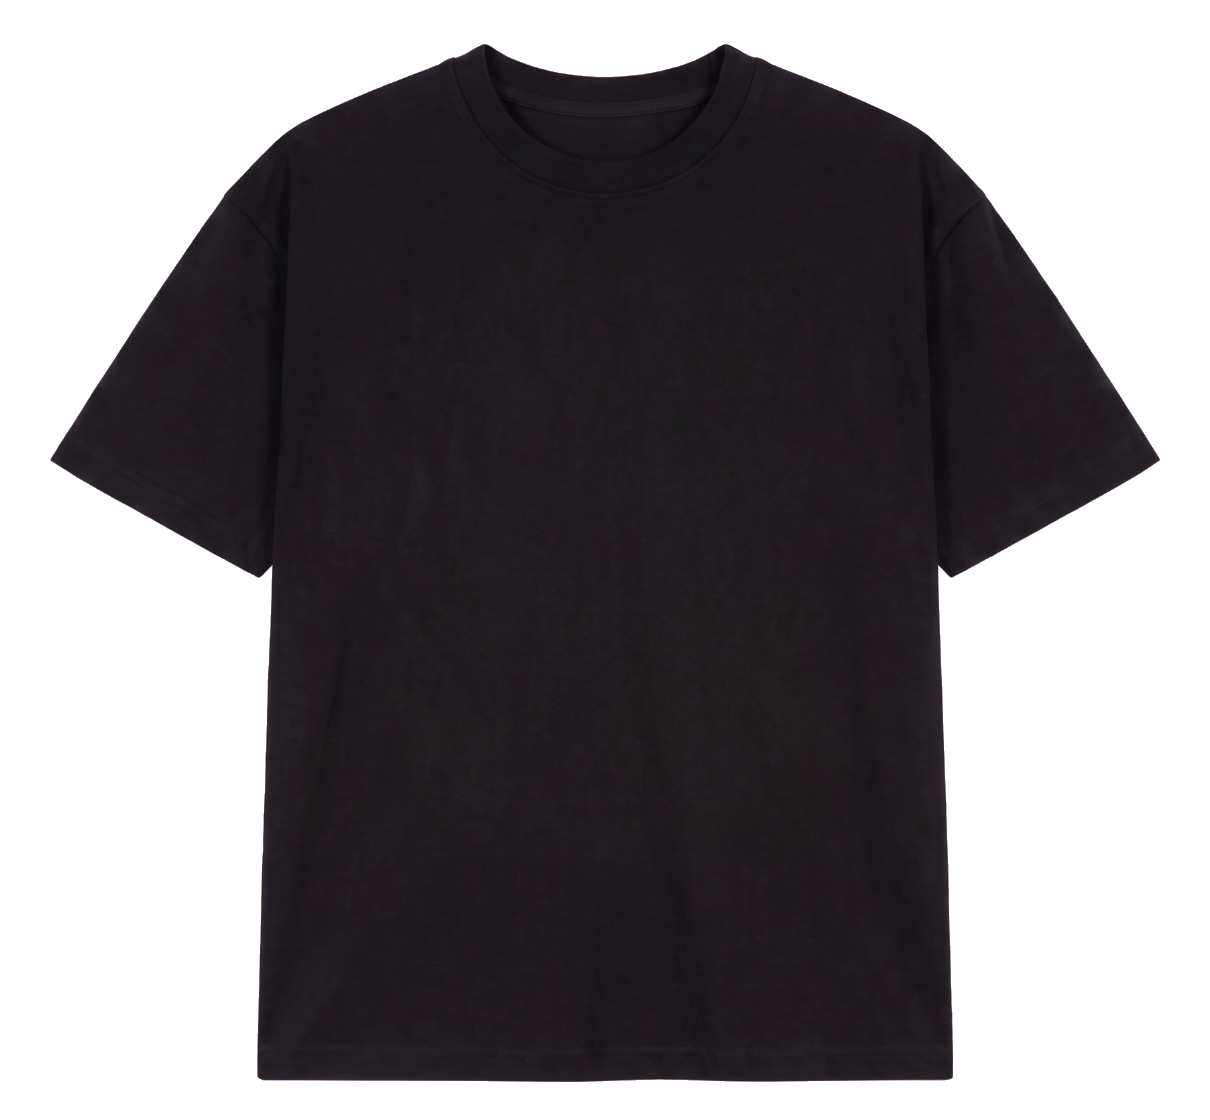
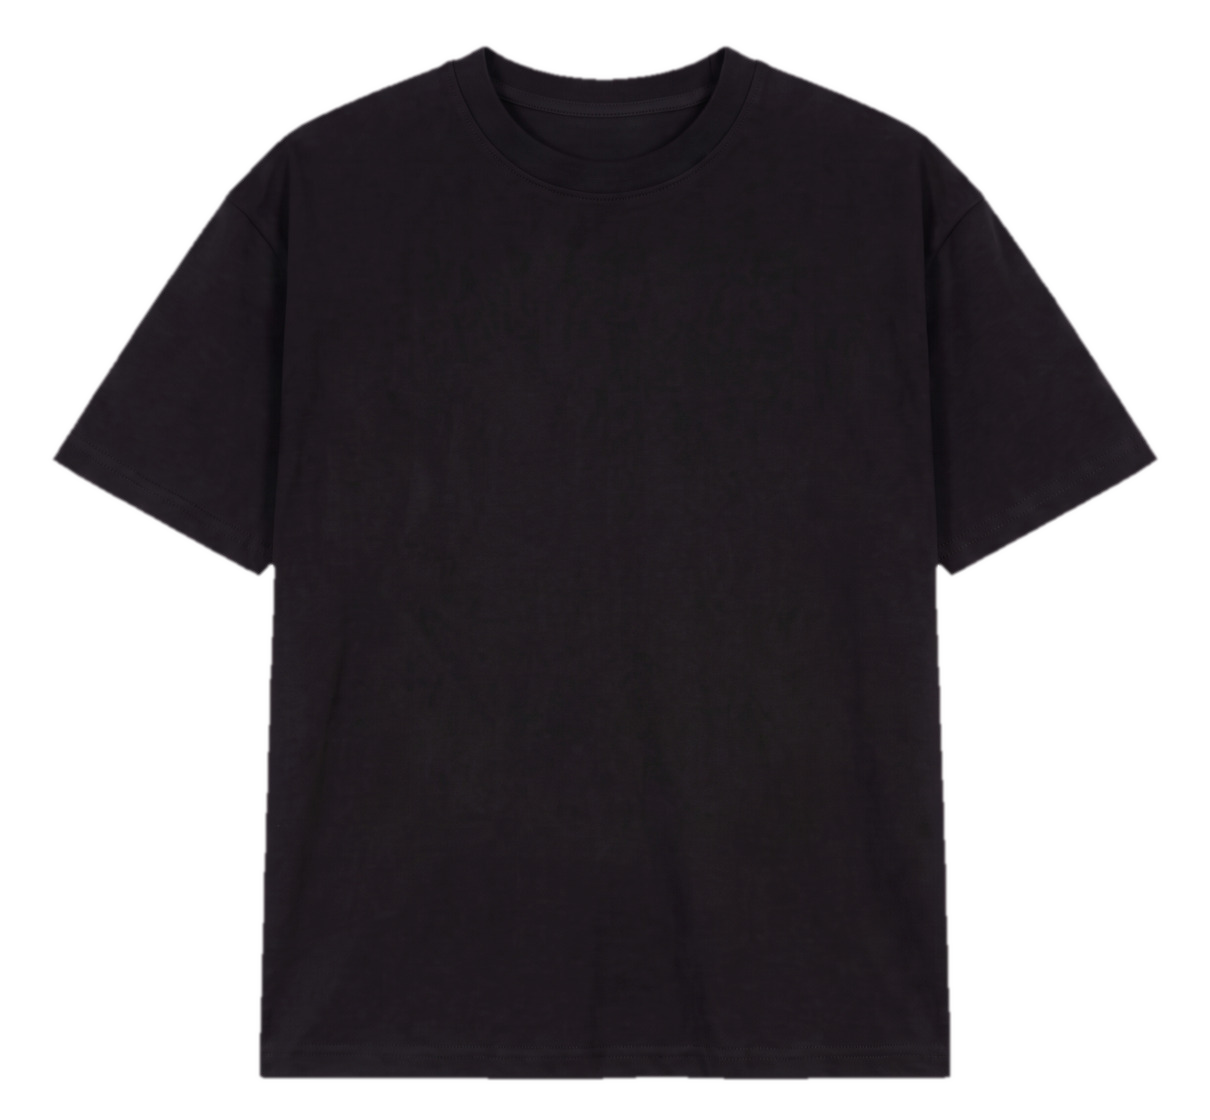
Basic Tee story B: neutral black tee, overhead light, hangtag on a string, clean cutout edge
Claude-Session: https://claude.ai/code/session_01NgkxYo98KMgVNZvb4fgxKB

diff --git a/clocal-teaser/src/stills/Stories.tsx b/clocal-teaser/src/stills/Stories.tsx
@@ -1,7 +1,7 @@
 import React from "react";
 import { AbsoluteFill, Img, staticFile } from "remotion";
 import { C, F } from "../brand/theme";
-import { headline, Wordmark } from "../components/kit";
+import { headline, Monogram, Wordmark } from "../components/kit";
 
 // Instagram story stills (1080×1920). Key content stays inside the IG safe zone
 // (≈250px clear at top, ≈250px at bottom). Marked slots are where the IG link /
@@ -638,33 +638,66 @@ export const PriceA: React.FC<{ was: string; now: string }> = ({ was, now }) => 
   </AbsoluteFill>
 );
 
-// B — object: the tee alone on ink under a single light, label like a hangtag.
+// B — object: the tee alone on ink under a single light, the price on a hangtag.
 export const PriceB: React.FC<{ was: string; now: string }> = ({ was, now }) => (
   <AbsoluteFill style={{ backgroundColor: C.ink }}>
-    <AbsoluteFill style={{ background: "radial-gradient(ellipse 55% 32% at 50% 40%, rgba(246,238,227,0.16) 0%, rgba(10,10,10,0) 100%)" }} />
+    {/* single overhead light */}
+    <AbsoluteFill style={{ background: "radial-gradient(ellipse 48% 30% at 50% 36%, rgba(246,238,227,0.13) 0%, rgba(246,238,227,0.04) 55%, rgba(10,10,10,0) 100%)" }} />
+    <AbsoluteFill style={{ background: "linear-gradient(180deg, rgba(246,238,227,0.05) 0%, rgba(10,10,10,0) 30%)" }} />
     <Corners color={`${C.cream}99`} len={120} />
-    <div style={{ position: "absolute", left: 0, right: 0, top: 250, textAlign: "center", ...mono(24, C.gray300, { letterSpacing: "0.2em" }) }}>
-      CLOCAL — BASIC TEE — BLACK
+    <div style={{ position: "absolute", left: 92, right: 92, top: 250, display: "flex", justifyContent: "space-between" }}>
+      <span style={mono(22, C.gray300, { letterSpacing: "0.16em" })}>BASIC TEE</span>
+      <span style={mono(22, C.gray300, { letterSpacing: "0.16em" })}>BLACK / 01</span>
     </div>
+
+    {/* ground shadow + the tee */}
+    <div style={{ position: "absolute", left: 230, top: 1110, width: 620, height: 60, borderRadius: "50%", backgroundColor: "rgba(0,0,0,0.9)", filter: "blur(28px)" }} />
     <Img
       src={staticFile("basic/flat-cutout.png")}
-      style={{ position: "absolute", left: 90, top: 360, width: 900, filter: "brightness(1.35) contrast(1.1) drop-shadow(0 40px 60px rgba(0,0,0,0.8))" }}
+      style={{ position: "absolute", left: 130, top: 360, width: 820, filter: "grayscale(0.85) brightness(1.18) contrast(1.12) drop-shadow(0 30px 50px rgba(0,0,0,0.85))" }}
     />
-    {/* hangtag */}
-    <div style={{ position: "absolute", left: 640, top: 1030, rotate: "-6deg", width: 300, backgroundColor: C.cream, padding: "22px 24px", boxShadow: "0 20px 40px rgba(0,0,0,0.5)" }}>
-      <div style={{ width: 16, height: 16, borderRadius: 8, backgroundColor: C.ink, margin: "0 auto 16px" }} />
-      <div style={mono(18, C.gray500)}>EOS PRICE</div>
-      <div style={{ ...headline(64, C.ink), marginTop: 6 }}>{now}</div>
-      <div style={{ display: "flex", justifyContent: "space-between", marginTop: 8 }}>
-        <span style={mono(18, C.ink)}>EGP</span>
-        <span style={{ ...mono(18, C.gray500), textDecoration: `line-through ${C.orange} 2px` }}>{`WAS ${was}`}</span>
+
+    {/* string + hangtag */}
+    <svg width={1080} height={1920} style={{ position: "absolute", inset: 0 }}>
+      <path d="M 742 1098 C 760 1130, 760 1160, 748 1196" stroke={C.cream} strokeWidth={2} fill="none" opacity={0.85} />
+    </svg>
+    <div
+      style={{
+        position: "absolute",
+        left: 610,
+        top: 1180,
+        width: 290,
+        rotate: "-5deg",
+        transformOrigin: "140px 16px",
+        backgroundColor: C.cream,
+        padding: "20px 24px 22px",
+        boxShadow: "0 22px 44px rgba(0,0,0,0.6)",
+      }}
+    >
+      <div style={{ display: "flex", justifyContent: "space-between", alignItems: "center" }}>
+        <Monogram width={34} color={C.ink} />
+        <div style={{ width: 14, height: 14, borderRadius: 7, backgroundColor: C.ink }} />
+        <span style={mono(15, C.gray500)}>EOS</span>
+      </div>
+      <div style={{ display: "flex", alignItems: "baseline", gap: 10, marginTop: 14 }}>
+        <span style={headline(66, C.ink)}>{now}</span>
+        <span style={mono(20, C.ink)}>EGP</span>
+      </div>
+      <div style={{ display: "flex", justifyContent: "space-between", marginTop: 10, paddingTop: 10, borderTop: `1px dashed ${C.ink}66` }}>
+        <span style={mono(15, C.gray500)}>WAS</span>
+        <span style={{ position: "relative", ...mono(15, C.gray500) }}>
+          {`${was} EGP`}
+          <span style={{ position: "absolute", left: -3, right: -3, top: "50%", height: 2, backgroundColor: C.orange }} />
+        </span>
       </div>
     </div>
-    <div style={{ position: "absolute", left: 92, right: 92, top: 1320 }}>
-      <div style={headline(80, C.cream)}>Built to repeat.</div>
-      <div style={{ ...mono(22, C.gray300), marginTop: 14 }}>100% COTTON · RELAXED FIT · END OF SEASON</div>
+
+    <div style={{ position: "absolute", left: 92, right: 92, top: 1240 }}>
+      <div style={headline(60, C.cream)}>Built</div>
+      <div style={headline(60, C.cream)}>to repeat.</div>
+      <div style={{ ...mono(19, C.gray300, { lineHeight: 1.6 }), marginTop: 16 }}>{"100% COTTON\nRELAXED FIT\nEND OF SEASON"}</div>
     </div>
-    <LinkSlot color={C.cream} top={1540} label="[ SHOP — THECLOCAL.COM ]" />
+    <LinkSlot color={C.cream} top={1555} label="[ SHOP — THECLOCAL.COM ]" />
     <Grain2 opacity={0.1} />
   </AbsoluteFill>
 );
